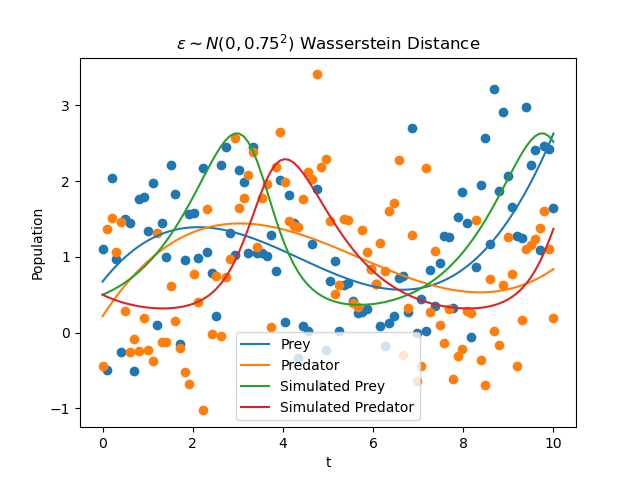
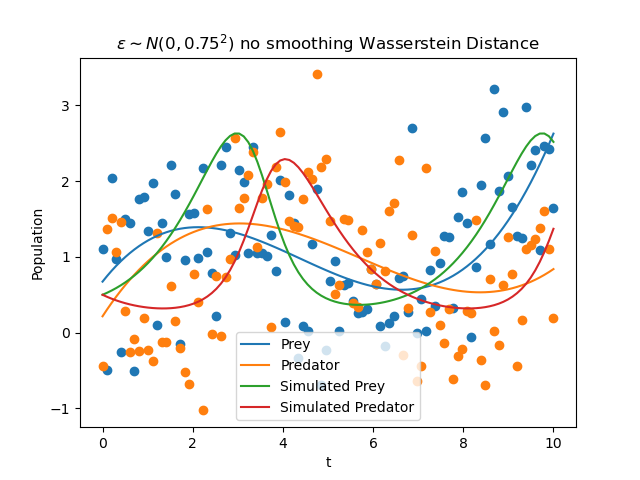
added new plots for wasserstein and energy, and standard deviation table.

Changed region(s): [[0.1875, 0.0625, 0.8438, 0.125]]

diff --git a/lotka_volterra/run_solution_plot.py b/lotka_volterra/run_solution_plot.py
@@ -1,0 +1,113 @@
+import os
+import numpy as np
+import matplotlib.pyplot as plt
+import torch
+from torchdiffeq_mod._impl import odeint
+from common.abc_posterior import abc_posterior_data
+
+OBSERVED_PATH = "./lotka_volterra/observed_data"
+RUN_PATH = "./lotka_volterra/runs"
+PLOT_PATH = "./lotka_volterra/plots"
+NOISE = [0.25, 0.5, 0.75, "linear"]
+DISTANCE_METRIC = ["Wasserstein Distance", "Energy Distance"]
+NPARAM = 2
+THRESHOLD = 0.001
+
+def dUdt(t, state, theta_a, theta_b):
+    x, y = state[..., 0], state[..., 1]
+    dxdt = theta_a*x - x*y
+    dydt = theta_b*x*y - y
+    return torch.stack((dxdt, dydt), dim=-1)
+
+ic = torch.full((1, 2), 0.5).cuda()
+t = torch.linspace(0, 10, 100).cuda()
+
+for n in NOISE:
+    observed_smoothing_path = os.path.join(OBSERVED_PATH, f"n{n}_smoothing/n{n}_smoothing.npy")
+    observed_no_smoothing_path = os.path.join(OBSERVED_PATH, f"n{n}_no_smoothing/n{n}_no_smoothing.npy")
+    observed_smoothing = np.load(observed_smoothing_path)
+    observed_no_smoothing = np.load(observed_no_smoothing_path)
+    
+    run_smoothing_path = os.path.join(RUN_PATH, f"n{n}_smoothing/run1.npy")
+    run_no_smoothing_path = os.path.join(RUN_PATH, f"n{n}_no_smoothing/run1.npy")
+    run_smoothing = np.load(run_smoothing_path)
+    run_no_smoothing = np.load(run_no_smoothing_path)
+
+    # Need to draw plot for smoothing and no smoothing separately
+    for metric in DISTANCE_METRIC:
+        low_thresh_smoothing = abc_posterior_data(NPARAM, run_smoothing, THRESHOLD, metric)
+        low_thresh_no_smoothing = abc_posterior_data(NPARAM, run_no_smoothing, THRESHOLD, metric)
+        alpha_smoothing_median, beta_smoothing_median = np.median(low_thresh_smoothing[:,0]), np.median(low_thresh_smoothing[:,1])
+        # alpha_smoothing_lower, beta_smoothing_lower = np.quantile(low_thresh_smoothing[:,0], 0.025), np.quantile(low_thresh_smoothing[:,1], 0.025)
+        # alpha_smoothing_upper, beta_smoothing_upper = np.quantile(low_thresh_smoothing[:,0], 0.975), np.quantile(low_thresh_smoothing[:,1], 0.975)
+        alpha_no_smoothing_median, beta_no_smoothing_median = np.median(low_thresh_no_smoothing[:,0]), np.median(low_thresh_no_smoothing[:,1])
+        # alpha_no_smoothing_lower, beta_no_smoothing_lower = np.quantile(low_thresh_no_smoothing[:,0], 0.025), np.quantile(low_thresh_no_smoothing[:,1], 0.025)
+        # alpha_no_smoothing_upper, beta_no_smoothing_upper = np.quantile(low_thresh_no_smoothing[:,0], 0.975), np.quantile(low_thresh_no_smoothing[:,1], 0.975)
+
+        smoothing_sol = odeint(lambda t, state: dUdt(t, state, alpha_smoothing_median, beta_smoothing_median), ic, t, method='rk4')
+        # smoothing_lower_sol = odeint(lambda t, state: dUdt(t, state, alpha_smoothing_lower, beta_smoothing_lower), ic, t, method='rk4')
+        # smoothing_upper_sol = odeint(lambda t, state: dUdt(t, state, alpha_smoothing_upper, beta_smoothing_upper), ic, t, method='rk4')
+        smoothing_prey_sol = np.nan_to_num(np.array(smoothing_sol.cpu()[:, :, 0]))
+        smoothing_predator_sol = np.nan_to_num(np.array(smoothing_sol.cpu()[:, :, 1]))
+        # smoothing_prey_lower_sol = np.nan_to_num(np.array(smoothing_lower_sol.cpu()[:, :, 0]))
+        # smoothing_predator_lower_sol = np.nan_to_num(np.array(smoothing_lower_sol.cpu()[:, :, 1]))
+        # smoothing_prey_upper_sol = np.nan_to_num(np.array(smoothing_upper_sol.cpu()[:, :, 0]))
+        # smoothing_predator_upper_sol = np.nan_to_num(np.array(smoothing_upper_sol.cpu()[:, :, 1]))
+
+        no_smoothing_sol = odeint(lambda t, state: dUdt(t, state, alpha_no_smoothing_median, beta_no_smoothing_median), ic, t, method='rk4')
+        # no_smoothing_lower_sol = odeint(lambda t, state: dUdt(t, state, alpha_no_smoothing_lower, beta_no_smoothing_lower), ic, t, method='rk4')
+        # no_smoothing_upper_sol = odeint(lambda t, state: dUdt(t, state, alpha_no_smoothing_upper, beta_no_smoothing_upper), ic, t, method='rk4')
+        no_smoothing_prey_sol = np.nan_to_num(np.array(no_smoothing_sol.cpu()[:, :, 0]))
+        no_smoothing_predator_sol = np.nan_to_num(np.array(no_smoothing_sol.cpu()[:, :, 1]))
+        # no_smoothing_prey_lower_sol = np.nan_to_num(np.array(no_smoothing_lower_sol.cpu()[:, :, 0]))
+        # no_smoothing_predator_lower_sol = np.nan_to_num(np.array(no_smoothing_lower_sol.cpu()[:, :, 1]))
+        # no_smoothing_prey_upper_sol = np.nan_to_num(np.array(no_smoothing_upper_sol.cpu()[:, :, 0]))
+        # no_smoothing_predator_upper_sol = np.nan_to_num(np.array(no_smoothing_upper_sol.cpu()[:, :, 1]))
+
+        if metric == "Wasserstein Distance":
+            save_name = "wd"
+        else:
+            save_name = "ed"
+        x = np.linspace(0, 10, 100)
+
+        # Smoothing Plot
+        plt.plot(x, observed_smoothing[:,0], label="Prey")
+        plt.plot(x, observed_smoothing[:,1], label="Predator")
+        plt.scatter(x, observed_no_smoothing[:,0])
+        plt.scatter(x, observed_no_smoothing[:,1])
+        plt.plot(x, smoothing_prey_sol, label="Simulated Prey")
+        plt.plot(x, smoothing_predator_sol, label="Simulated Predator")
+        # plt.plot(x, smoothing_prey_lower_sol, linestyle="--")
+        # plt.plot(x, smoothing_predator_lower_sol, linestyle="--")
+        plt.legend()
+        plt.xlabel("t")
+        plt.ylabel("Population")
+        if n == "linear":
+            plt.title(f"$\epsilon\sim N(0, t^2)$ smoothing {metric}")
+        else:
+            plt.title(f"$\epsilon\sim N(0, {n}^2)$ smoothing {metric}")
+        
+        save_path = os.path.join(PLOT_PATH, f"n{n}_smoothing/sim_{save_name}_sol.png")
+        plt.savefig(save_path)
+        plt.close()
+
+        # No Smoothing
+        plt.plot(x, observed_smoothing[:,0], label="Prey")
+        plt.plot(x, observed_smoothing[:,1], label="Predator")
+        plt.scatter(x, observed_no_smoothing[:,0])
+        plt.scatter(x, observed_no_smoothing[:,1])
+        plt.plot(x, no_smoothing_prey_sol, label="Simulated Prey")
+        plt.plot(x, no_smoothing_predator_sol, label="Simulated Predator")
+        # plt.plot(x, smoothing_prey_lower_sol, linestyle="--")
+        # plt.plot(x, smoothing_predator_lower_sol, linestyle="--")
+        plt.legend()
+        plt.xlabel("t")
+        plt.ylabel("Population")
+        if n == "linear":
+            plt.title(f"$\epsilon\sim N(0, t^2)$ no smoothing {metric}")
+        else:
+            plt.title(f"$\epsilon\sim N(0, {n}^2)$ no smoothing {metric}")
+        
+        save_path = os.path.join(PLOT_PATH, f"n{n}_no_smoothing/sim_{save_name}_sol.png")
+        plt.savefig(save_path)
+        plt.close()

diff --git a/lotka_volterra/results_table.py b/lotka_volterra/results_table.py
@@ -57,3 +57,17 @@ rmse_styled.format(precision=2)
 
 save_path_t2 = os.path.join(PLOT_PATH, "rmse_table.png")
 dfi.export(rmse_styled, save_path_t2)
+
+# Table 3 - Standard Deviation table
+stdev_table = df[(df["summary_statistic"] == "StDev") & (df["quantile"] == "0.1%")].reset_index(drop=True)
+piv_table = pd.pivot_table(stdev_table, values=["Cramer-von Mises Distance", "Energy Distance", "Kullback-Leibler Divergence",
+                                          "Maximum Mean Discrepancy", "Wasserstein Distance"], index = ["Model", "Parameter"])
+
+piv_table = piv_table[["Cramer-von Mises Distance", "Energy Distance", "Kullback-Leibler Divergence",
+                       "Maximum Mean Discrepancy", "Wasserstein Distance"]]
+
+stdev_styled = piv_table.style.background_gradient(axis=None, vmin=0, vmax=5, cmap="YlOrRd") #adding a gradient based on values in cell
+stdev_styled.format(precision=2)
+
+save_path_t3 = os.path.join(PLOT_PATH, "stdev_table.png")
+dfi.export(stdev_styled, save_path_t3)
